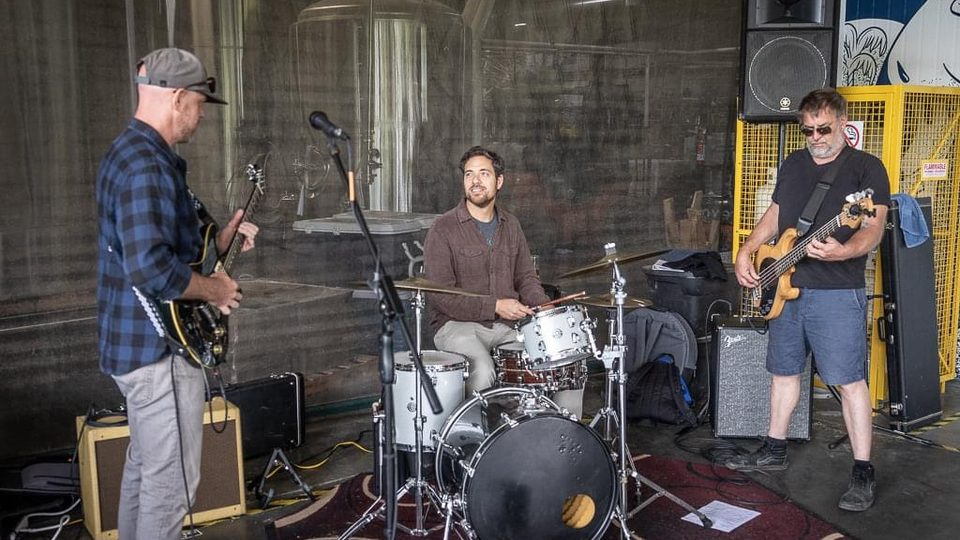
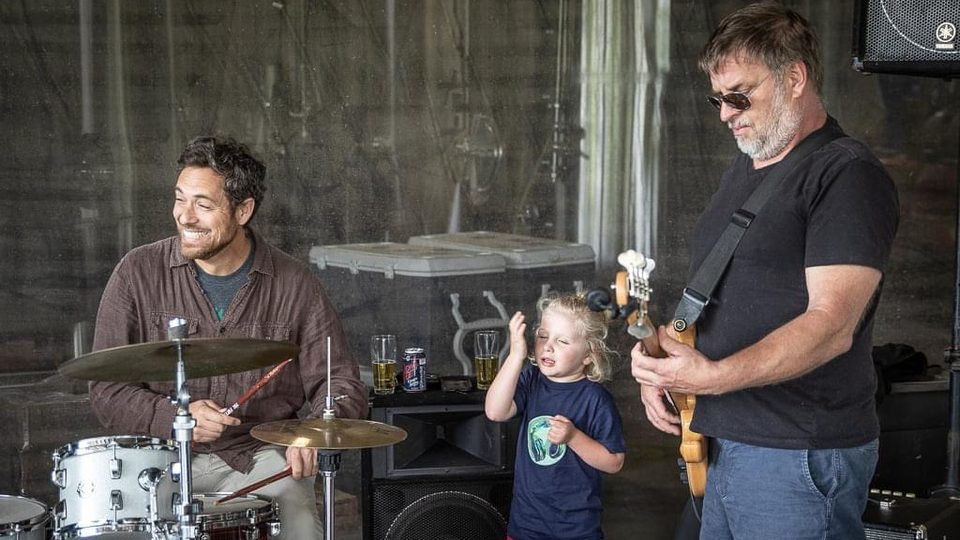
Dunlap porch on the Build card, and fix two transposed photographs
The Dunlap photograph arrived, so the Build card is a real photograph and
the last placeholder on that page is filled with the same shot at full
width. wp-shop.svg, the last of the abstract placeholders, is removed.

The band photograph with the child is published, as agreed. Your phrasing
("the kiddo next to me and Jay") also settled the open question from last
round: Jay is the bassist, which makes that the photograph you meant by
"the one where Jay and I are playing together". So it is the Play card. The
three-piece that was standing in has moved onto the Play page, credited to
Ken Voltz.

Two photographs were transposed, one of which shipped
I had been matching your numeric filenames to content by eye, from the
order they appeared, without checking the processed files afterwards. Two
hashes were swapped:

  play-card.jpg  was the paraglider sunset, not the band
  fly-sunset.jpg was the band and the child, not paragliders

The second one went out in the previous commit, so the Fly page has been
carrying a photograph of a drum kit captioned "Evening flight", with alt
text describing two paragliders that are not in it. Both are corrected.

Caught by building a contact sheet of every processed image and looking at
all twenty-four at once, rather than trusting the filenames. Worth doing
that from the start next time: the hashes carry no meaning, so the only
reliable check is looking at the output.

Verified after the fix: contact sheet re-checked for the two corrected
[…]

diff --git a/components/terrain.html b/components/terrain.html
@@ -187,7 +187,7 @@
       </button>
 
       <div class="sp-terrain__card" id="sp-card-play" data-sp-kind="lamp" data-sp-open="false">
-        <img class="sp-terrain__card-media" src="/assets/img/play-card.jpg" alt="Shane on drums with a guitarist and a bassist, playing outside a brewery" width="960" height="540" loading="lazy">
+        <img class="sp-terrain__card-media" src="/assets/img/play-card.jpg" alt="Shane on drums and Jay on bass playing outdoors, a small child dancing between them" width="960" height="540" loading="lazy">
         <div class="sp-terrain__card-body">
           <p class="sp-label sp-terrain__card-kicker">Play</p>
           <h2 class="sp-terrain__card-title">Two bands, and a music degree I went back for</h2>
@@ -244,7 +244,7 @@
       </button>
 
       <div class="sp-terrain__card" id="sp-card-build" data-sp-kind="lamp" data-sp-open="false">
-        <img class="sp-terrain__card-media" src="/assets/img/wp-shop.svg" alt="" width="640" height="400" loading="lazy">
+        <img class="sp-terrain__card-media" src="/assets/img/build-card.jpg" alt="A timber house in Dunlap with a newly built wraparound porch and railing" width="960" height="540" loading="lazy">
         <!-- PLACEHOLDER: carpentry photograph needed -->
         <div class="sp-terrain__card-body">
           <p class="sp-label sp-terrain__card-kicker">Build</p>

diff --git a/index.html b/index.html
@@ -329,7 +329,7 @@
       </button>
 
       <div class="sp-terrain__card" id="sp-card-play" data-sp-kind="lamp" data-sp-open="false">
-        <img class="sp-terrain__card-media" src="/assets/img/play-card.jpg" alt="Shane on drums with a guitarist and a bassist, playing outside a brewery" width="960" height="540" loading="lazy">
+        <img class="sp-terrain__card-media" src="/assets/img/play-card.jpg" alt="Shane on drums and Jay on bass playing outdoors, a small child dancing between them" width="960" height="540" loading="lazy">
         <div class="sp-terrain__card-body">
           <p class="sp-label sp-terrain__card-kicker">Play</p>
           <h2 class="sp-terrain__card-title">Two bands, and a music degree I went back for</h2>
@@ -386,7 +386,7 @@
       </button>
 
       <div class="sp-terrain__card" id="sp-card-build" data-sp-kind="lamp" data-sp-open="false">
-        <img class="sp-terrain__card-media" src="/assets/img/wp-shop.svg" alt="" width="640" height="400" loading="lazy">
+        <img class="sp-terrain__card-media" src="/assets/img/build-card.jpg" alt="A timber house in Dunlap with a newly built wraparound porch and railing" width="960" height="540" loading="lazy">
         <!-- PLACEHOLDER: carpentry photograph needed -->
         <div class="sp-terrain__card-body">
           <p class="sp-label sp-terrain__card-kicker">Build</p>

diff --git a/build/index.html b/build/index.html
@@ -221,11 +221,10 @@
       </figure>
 
       <figure class="sp-figure">
-        <div class="sp-figure__slot">
-          <span class="sp-label">Photograph</span>
-          <span>The house rebuild in Dunlap</span>
-        </div>
-        <figcaption>Placeholder: the Dunlap photograph did not come through</figcaption>
+        <img src="/assets/img/build-dunlap.jpg"
+             alt="A timber house in Dunlap with a newly built wraparound porch, railing and stone foundation"
+             width="1200" height="900" loading="lazy">
+        <figcaption>The house in Dunlap, porch framed and railed</figcaption>
       </figure>
     </div>
   </div>

diff --git a/templates/build.html b/templates/build.html
@@ -76,11 +76,10 @@
       </figure>
 
       <figure class="sp-figure">
-        <div class="sp-figure__slot">
-          <span class="sp-label">Photograph</span>
-          <span>The house rebuild in Dunlap</span>
-        </div>
-        <figcaption>Placeholder: the Dunlap photograph did not come through</figcaption>
+        <img src="/assets/img/build-dunlap.jpg"
+             alt="A timber house in Dunlap with a newly built wraparound porch, railing and stone foundation"
+             width="1200" height="900" loading="lazy">
+        <figcaption>The house in Dunlap, porch framed and railed</figcaption>
       </figure>
     </div>
   </div>

diff --git a/play/index.html b/play/index.html
@@ -183,6 +183,13 @@
         <figcaption>Oskar Blues, photograph by Ken Voltz</figcaption>
       </figure>
 
+      <figure class="sp-figure">
+        <img src="/assets/img/play-band.jpg"
+             alt="Shane on drums with a guitarist and a bassist playing outside a brewery"
+             width="1024" height="683" loading="lazy">
+        <figcaption>High Flying Criminals, photograph by Ken Voltz</figcaption>
+      </figure>
+
       <h2>Odd Meters</h2>
       <p>
         A jazz fusion duo with Jon Morrow, who plays a custom Novax

diff --git a/templates/play.html b/templates/play.html
@@ -38,6 +38,13 @@
         <figcaption>Oskar Blues, photograph by Ken Voltz</figcaption>
       </figure>
 
+      <figure class="sp-figure">
+        <img src="/assets/img/play-band.jpg"
+             alt="Shane on drums with a guitarist and a bassist playing outside a brewery"
+             width="1024" height="683" loading="lazy">
+        <figcaption>High Flying Criminals, photograph by Ken Voltz</figcaption>
+      </figure>
+
       <h2>Odd Meters</h2>
       <p>
         A jazz fusion duo with Jon Morrow, who plays a custom Novax

diff --git a/fly/index.html b/fly/index.html
@@ -191,8 +191,8 @@
 
       <figure class="sp-figure">
         <img src="/assets/img/fly-sunset.jpg"
-             alt="Two paragliders flying at sunset under orange cloud, pilots and wings on the ground below"
-             width="1024" height="683" loading="lazy">
+             alt="A paraglider flying at sunset under orange cloud, other pilots and wings on the ground below"
+             width="1200" height="900" loading="lazy">
         <figcaption>Evening flight</figcaption>
       </figure>
 

diff --git a/templates/fly.html b/templates/fly.html
@@ -46,8 +46,8 @@
 
       <figure class="sp-figure">
         <img src="/assets/img/fly-sunset.jpg"
-             alt="Two paragliders flying at sunset under orange cloud, pilots and wings on the ground below"
-             width="1024" height="683" loading="lazy">
+             alt="A paraglider flying at sunset under orange cloud, other pilots and wings on the ground below"
+             width="1200" height="900" loading="lazy">
         <figcaption>Evening flight</figcaption>
       </figure>
 
